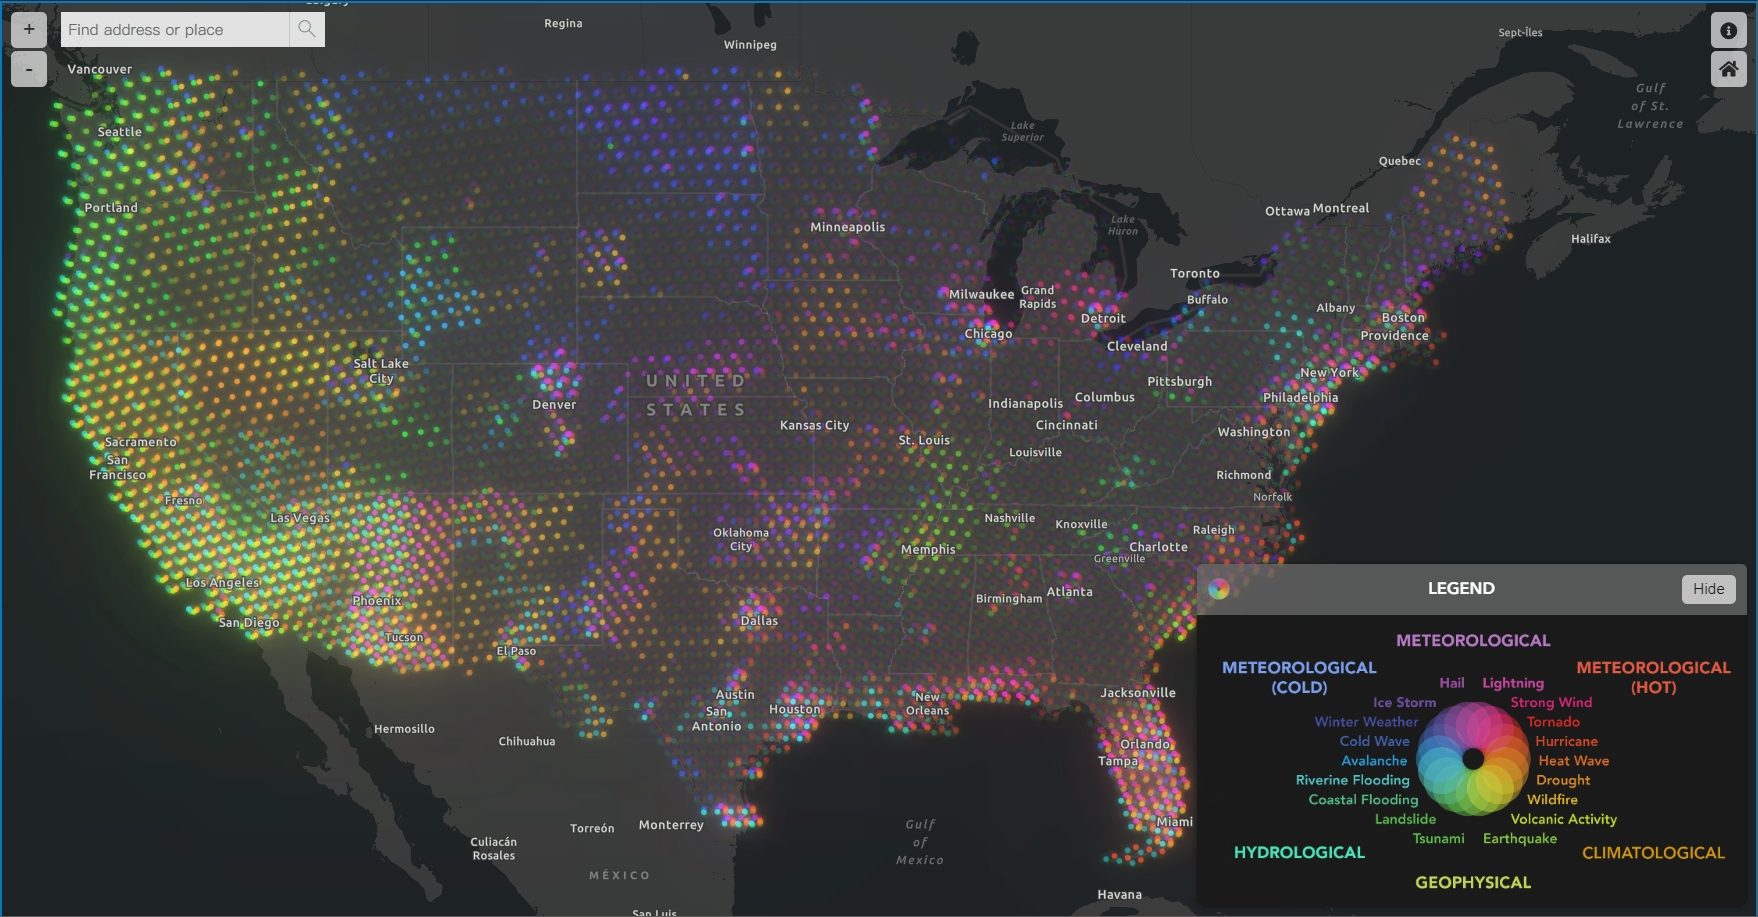
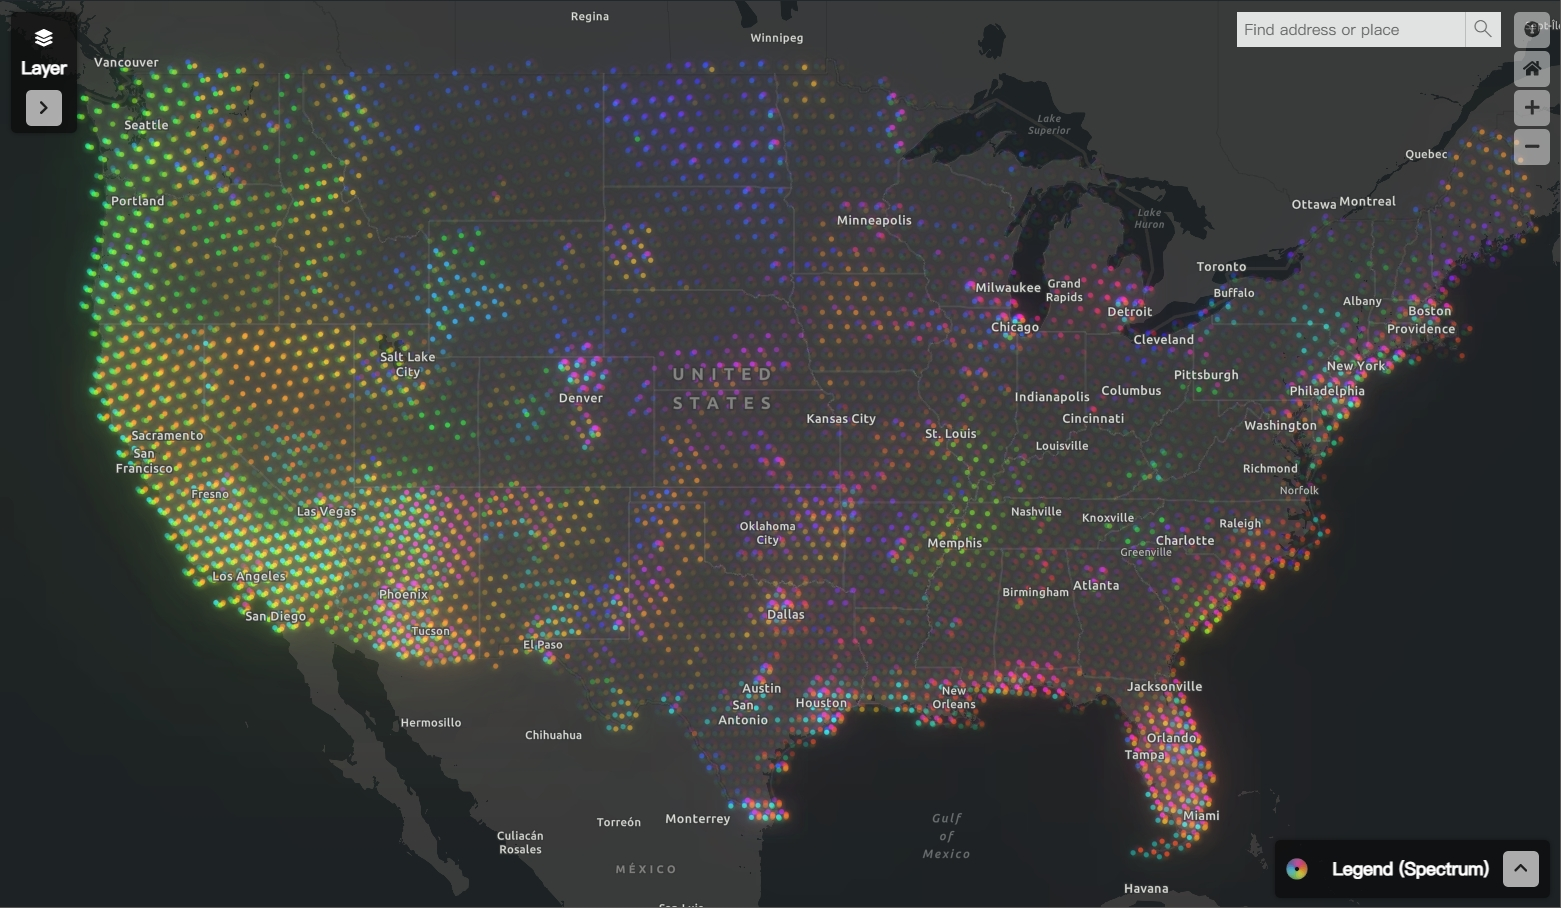
adding usrh map

diff --git a/maps/us_rising_hazard.html b/maps/us_rising_hazard.html
@@ -1,0 +1,295 @@
+<!DOCTYPE html>
+<html lang="en">
+
+<head>
+	<meta charset="utf-8">
+	<meta name="viewport" content="width=device-width, initial-scale=1, shrink-to-fit=yes">
+	<meta name="description" content="CARTOGUOPHY - Web Portfolio of Atlas Guo">
+	<meta name="author" content="Atlas (Chenxiao) Guo">
+	<meta property="og:image" content="https://cartoguophy.com/assets/cartoguophy_og.jpg">
+	<meta property="og:image:width" content="1200">
+	<meta property="og:image:height" content="675">
+	<title>CartoGuophy</title>
+
+	<!-- Bootstrap -->
+	<link href="..//libs/bootstrap/bootstrap.min.css" rel="stylesheet">
+
+	<!-- Font -->
+	<link rel="preconnect" href="https://fonts.googleapis.com">
+	<link rel="preconnect" href="https://fonts.gstatic.com" crossorigin>
+	<link
+		href="https://fonts.googleapis.com/css2?family=Barlow:ital,wght@0,100;0,200;0,300;0,400;0,500;0,600;0,700;0,800;0,900;1,100;1,200;1,300;1,400;1,500;1,600;1,700;1,800;1,900&family=Montserrat:ital,wght@0,100..900;1,100..900&display=swap"
+		rel="stylesheet">
+
+	<!-- Fontawesome -->
+	<link href="..//libs/fontawesome/css/fontawesome.min.css" rel="stylesheet" />
+	<link href="..//libs/fontawesome/css/brands.min.css" rel="stylesheet" />
+	<link href="..//libs/fontawesome/css/solid.min.css" rel="stylesheet" />
+
+	<!-- Custom styles -->
+	<link href="..//css/style.css" rel="stylesheet">
+	<link rel="shortcut icon" href="..//assets/icon.png">
+</head>
+
+<!-- Google tag (gtag.js) -->
+<script async src="https://www.googletagmanager.com/gtag/js?id=G-7N1ZQRZ0PH"></script>
+<script>
+	window.dataLayer = window.dataLayer || [];
+	function gtag() { dataLayer.push(arguments); }
+	gtag('js', new Date());
+
+	gtag('config', 'G-7N1ZQRZ0PH');
+</script>
+
+<body id="page-top">
+
+	<!-- Navigation -->
+	<nav class="navbar navbar-expand-lg navbar-dark fixed-top" id="mainNav">
+		<div class="container">
+			<img src="..//assets/icon.png" alt="" height="22px" style="margin-right:10px">
+			<a class="navbar-brand js-scroll-trigger" href="../index.html">"CARTOGUOPHY"</a>
+			<button class="navbar-toggler navbar-toggler-right" type="button" data-toggle="collapse"
+				data-target="#navbarResponsive" aria-controls="navbarResponsive" aria-expanded="false"
+				aria-label="Toggle navigation">
+
+				<i class="fas fa-bars"></i>
+			</button>
+			<div class="collapse navbar-collapse" id="navbarResponsive">
+				<ul class="navbar-nav text-uppercase ml-auto">
+					<li class="nav-item">
+						<a class="nav-link js-scroll-trigger" href="../resume.html">Resume</a>
+					</li>
+					<li class="nav-item">
+						<a class="nav-link js-scroll-trigger" href="../portfolio.html">Portfolio</a>
+					</li>
+					<li class="nav-item">
+						<a class="nav-link js-scroll-trigger" href="../vision.html">Vision</a>
+					</li>
+					<li class="nav-item">
+						<a class="nav-link js-scroll-trigger" href="../contact.html">Contact</a>
+					</li>
+				</ul>
+			</div>
+		</div>
+	</nav>
+
+	<!-- Header -->
+	<header class="masthead">
+	</header>
+
+	<div class="portfolio-modal">
+		<div class="modal-content">
+			<div class="container">
+				<div class="row">
+					<div class="col-lg-8 mx-auto">
+						<div class="modal-body">
+							<!-- Project Details Go Here -->
+							<h2 class="text-uppercase">United States of Rising Hazards</h2>
+							<h5 class="text-muted">Experimental interactive edition of my previous static map<br>The
+								United States of the
+								Blooming Risks
+							</h5>
+							<br>
+							<img class="img-fluid d-block mx-auto" src="us_rising_hazard_full.png" alt="">
+							View the <a href="https://cartoguophy.com/us_rising_hazard/" target="_blank">Interactive
+								Map</a>
+							<br>
+							<br>
+							<p>
+								Using FEMA’s <a href="https://hazards.fema.gov/nri/" target="_blank">National Risk
+									Index (NRI)</a> dataset, this interactive map aggregates the
+								county-level scores of 18 natural hazards, to 1K-SQ-MI hexagon units, and builds an
+								innovative multivariate visualization with functionalities of layer toggling and spatial
+								query by clicking or searching.
+							</p>
+
+							<p>
+								One of the key design objectives of this map is to explore how, when faced with a large
+								number of attributes, a map can simultaneously present both the overall spatial pattern
+								and the ability to retrieve individual attribute details. I have already begun exploring
+								this concept and gained experience while designing these two static maps: <a
+									href="https://cartoguophy.com/maps/us_natural_disaster.html" target="_blank">United
+									States
+									of Natural Disasters</a>, and <a
+									href="https://cartoguophy.com/maps/us_blooming_risk.html" target="_blank">United
+									States of Blooming Risks</a>.
+							</p>
+							<img class="img-fluid d-block mx-auto" src="us_rising_hazard_1.png" alt="">
+							<p>
+								The aggregation units for the main map and all inset maps are 1,000-sq-mi hexagons,
+								generated under the Albers equal area conic projection. A specially designed
+								illustrative scale graphic is included as a collapsible legend, on the bottom right
+								corner of the web map interface.
+							</p>
+							<p>
+								The values for each hexagon are calculated as the weighted average of the original NRI
+								risk scores at the county level, with weights determined by the proportion of the area
+								each hexagon intersects with the counties. According to FEMA, the risk for a specific
+								hazard is proportional to the Expected Annual Loss from that hazard, adjusted by a
+								community risk factor. This factor increases with high Social Vulnerability and
+								decreases with high Community Resilience. Notably, this visualization method (static map
+								version) has been revised under the guidance of FEMA personnel.
+							</p>
+							<p>
+								FEMA does not provide hierarchical structures or categories of the 18 hazards – they are
+								sorted alphabetically. In this symbol, all 18 hazard types are arranged along a color
+								spectrum broadly based on their mechanisms. Similar hazards are placed closer together
+								and assigned similar colors that correspond to their categories (e.g., hot/cold
+								meteorological, climatological, hydrological, geophysical), visually revealing potential
+								spatial patterns. Specifically, ChatGPT is used to generate detailed qualitative
+								descriptions for each of the 18 hazards under a consistent standard. These descriptions
+								were then used to create a similarity matrix (18x18), which informed the further
+								sequence construction. The final arrangement of the color spectrum was fine-tuned
+								manually based on my knowledge and expertise, ensuring accurate and logical progression.
+							</p>
+							<p>
+								The multivariate thematic symbol design uses color (transparency) to represent
+								attributes: opaque/bright colors indicate higher risks for specific natural hazards.
+								Particularly, the circular 18-color sequence is not a standard RGB color wheel. The
+								segment between red and yellow is intentionally expanded to leverage the human eye’s
+								heightened ability to distinguish orange-like hues. The Hex codes for these 18 colors
+								were generated with the assistance of ChatGPT.
+							</p>
+							<p>
+								Additionally, functionalities of layer toggling, attribute information retrieving
+								(pop-up) and
+								place/address searching (search bar) are provided, allowing users to further explore
+								their areas of interest with more details, i.e. scores of 18 individual hazards with
+								color-coded risk levels.
+							</p>
+							<img class="img-fluid d-block mx-auto" src="us_rising_hazard_2.png" alt="">
+							<p>
+								To sum up, beyond successfully balancing the presentation of overall spatial patterns
+								and individual attribute retrieval, this map intricately combines science (color theory)
+								and art (innovative symbol design), theory (multivariate thematic mapping) and
+								application (natural hazard risk assessment), as well as traditional cartography
+								(thematic mapping) and automation (AI-assisted designing processes). It offers both
+								professionals in related fields and the general public inspiring insights from diverse
+								perspectives.
+							</p>
+							<p>
+								(Data Source: FEMA National Risk Index)
+
+							</p>
+
+
+						</div>
+					</div>
+				</div>
+			</div>
+		</div>
+	</div>
+
+	<div class="image-container bg-light text-center" style="padding:50px">
+		<h4>Feedback Appreciated!</h4>
+		<div class="text-muted"><i>Your comments will be sent to my mailbox privately.</i></div><br>
+
+		<form action="https://formspree.io/f/mgeggzyk" method="POST">
+			<div class="form-group">
+				<div class="form-row">
+					<div class="col">
+						<input type="name" name="name" class="form-control" placeholder="Name" required>
+					</div>
+					<div class="col">
+						<input type="email" name="email" class="form-control" placeholder="Email" required>
+					</div>
+
+				</div>
+			</div>
+			<div class="form-group">
+				<textarea placeholder="Message" class="form-control" name="message" rows="4" required
+					onfocus="document.querySelector('input[name=fileName]').value = window.location.href.split('/').pop();"></textarea>
+			</div>
+			<div class="form-group">
+				<input style="display: none;" type="fileName" name="fileName" class="form-control">
+			</div>
+			<button type="submit" class="btn btn-xl btn-dark btn-block">SEND</button>
+		</form>
+	</div>
+
+	<!-- Footer -->
+	<footer class="footer">
+		<div class="container">
+			<div class="row">
+				<div class="col-md-2">
+				</div>
+				<div class="col-md-8">
+					<ul class="list-inline social-buttons">
+						<li class="list-inline-item">
+							<a href="mailto:cartoguophy@gmail.com" target="_blank">
+								<i class="fa fa-envelope"></i>
+							</a>
+						</li>
+						<li class="list-inline-item">
+							<a href="https://www.linkedin.com/in/atlasguo" target="_blank">
+								<i class="fab fa-linkedin-in"></i>
+							</a>
+						</li>
+						<li class="list-inline-item">
+							<a href="https://x.com/cartoguophy" target="_blank">
+								<i class="fab fa-x-twitter"></i>
+							</a>
+						</li>
+						<li class="list-inline-item">
+							<a href="https://bsky.app/profile/cartoguophy.bsky.social" target="_blank">
+								<i class="fab fa-bluesky"></i>
+							</a>
+						</li>
+						<span class="line-break"></span>
+						<li class="list-inline-item">
+							<a href="https://www.instagram.com/cartoguophy/" target="_blank">
+								<i class="fab fa-instagram"></i>
+							</a>
+						</li>
+						<li class="list-inline-item">
+							<a href="https://www.facebook.com/guo.atlas" target="_blank">
+								<i class="fab fa-facebook-f"></i>
+							</a>
+						</li>
+						<li class="list-inline-item">
+							<a href="https://www.youtube.com/channel/UCXy9x6kvG_qn66JcPJfCSFA" target="_blank">
+								<i class="fab fa-youtube"></i>
+							</a>
+						</li>
+						<li class="list-inline-item">
+							<a href="https://space.bilibili.com/1404682551" target="_blank">
+								<i class="fab fa-bilibili"></i>
+							</a>
+						</li>
+						<p></p>
+					</ul>
+				</div>
+				<div class="col-md-2">
+				</div>
+			</div>
+			<p class="text-muted" style="margin-top:0px">Copyright © 2024 Atlas Guo. <span class="line-break"></span>All
+				rights reserved.
+			</p>
+			<img src="..//assets/atlas_seal.png" alt="Seal of Atlas" height="45px" style="margin-top:10px">
+			<br><br>
+			<div style="display:none">
+				<script type="text/javascript" id="clustrmaps"
+					src="//clustrmaps.com/map_v2.js?d=Mcf9aHSkjA1rZDHRyrFo0Sy2HoxSqpV6CSoaQdvRIfQ&cl=ffffff&w=a"></script>
+				<script type='text/javascript' id='mapmyvisitors'
+					src='https://mapmyvisitors.com/map.js?cl=829b3f&w=150&t=n&d=ukSsjGdcShOQmlteFQf1g39TecSrYk58qZKTwcbeU54&co=212529&cmo=3d3d3d&cmn=bababa&ct=ffffff'>
+					</script>
+			</div>
+		</div>
+		</div>
+	</footer>
+
+	<!-- Back To Top Button -->
+	<button id="backToTop" style="display: none;"><i class="fas fa-arrow-up"></i></button>
+
+	<!-- Bootstrap -->
+	<script src="..//libs/bootstrap/jquery.min.js"></script>
+	<script src="..//libs/bootstrap/bootstrap.bundle.min.js"></script>
+	<script src="..//libs/bootstrap/jquery.easing.min.js"></script>
+	<script src="..//libs/bootstrap/jqBootstrapValidation.min.js"></script>
+
+	<!-- Custom scripts for this template -->
+	<script src="..//js/main.js"></script>
+
+</body>
+
+</html>
